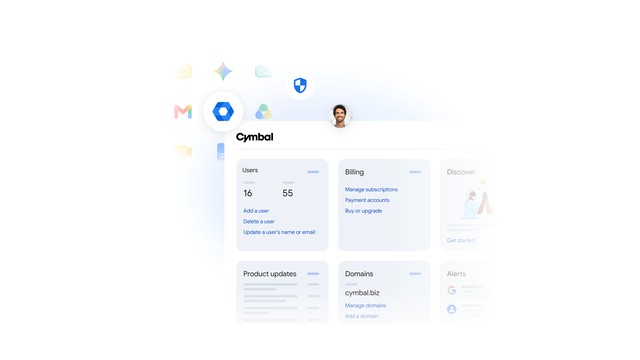
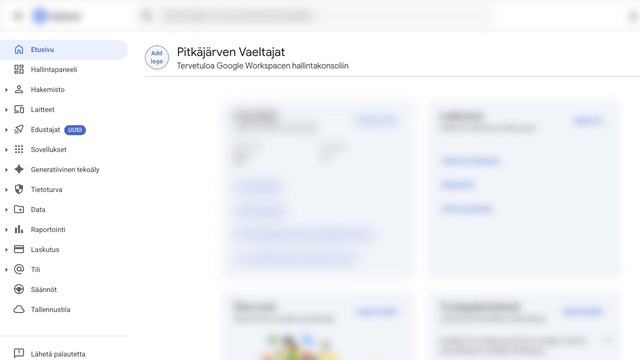
Replace the Hallinta mockup with the real admin console
Captured with the same redact-before-the-shutter method as the other three: the
console's cards, the search field and the account button are blurred by an
injected stylesheet before anything reaches a file. The nav rail stays crisp —
those are Google's own labels — and so does the header, because the
organisation named there is the association itself.

The console only loads behind a fresh sign-in challenge, so unlike the others
this one has to be signed in by hand in the browser first. Noted in both the
component and the README, since that is what blocked the earlier attempt.

Claude-Session: https://claude.ai/code/session_01KapsuRWMqCE23gxFnGreD4

diff --git a/app/previews.tsx b/app/previews.tsx
@@ -15,18 +15,17 @@
  * Re-capturing any of these means checking that again — the README has the
  * detail.
  *
- * **Gmail, Drive and Kalenteri** are the real products, captured on the
+ * **All four Google ones** are the real products, captured on the
  * association's own Workspace account and redacted *in the page before the
  * shutter*: a stylesheet was injected that blurs every file name, event chip,
- * search field and the account button, so no readable content was ever written
- * to a file. What is left is Google's own chrome — logos, nav rails, toolbars,
- * the calendar grid. The Gmail inbox happened to be empty, which is why its
- * list needs no blur.
+ * console card, search field and the account button, so no readable content was
+ * ever written to a file. What is left is Google's own chrome — logos, nav
+ * rails, toolbars, the calendar grid. The Gmail inbox happened to be empty,
+ * which is why its list needs no blur, and the admin console's own header is
+ * left crisp because the organisation's name is the association's own.
  *
- * **Hallinta is still Google's marketing mockup** from workspace.google.com.
- * The admin console demands a fresh sign-in challenge, and nobody types a
- * password to take a screenshot. Replace it the same way as the others if you
- * ever have the console open.
+ * The admin console will only load behind a fresh sign-in challenge, so
+ * re-capturing it means signing in first — in the browser, not from here.
  */
 
 /**

diff --git a/README.md b/README.md
@@ -138,18 +138,18 @@ and are as captured, the last with the WordPress admin bar cropped off the top.
 **Re-capturing any of these means re-checking that.** A screenshot of a
 signed-in internal service is the one asset on this site that can leak.
 
-**Gmail, Drive and Kalenteri are the real products.** They were captured on the
+**All four Google tiles are the real products.** They were captured on the
 association's Workspace account with the redaction applied *in the page before
 the shutter* — an injected stylesheet blurring every file name, event chip,
-search field and the account button — so no readable content was ever written to
-a file. What survives is Google's own chrome. Gmail's inbox was empty at the
-time, which is why its list is unblurred.
+console card, search field and the account button — so no readable content was
+ever written to a file. What survives is Google's own chrome. Gmail's inbox was
+empty at the time, which is why its list is unblurred; the admin console's
+header is left crisp because the organisation named there is the association.
 
 Do it that way if you re-capture them. Blurring afterwards means the unredacted
-frame existed on disk first.
-
-**Hallinta is still Google's marketing mockup.** The admin console demands a
-fresh sign-in challenge and nobody types a password to take a screenshot.
+frame existed on disk first. The admin console additionally refuses to load
+without a fresh sign-in challenge, so that one has to be signed in by hand in
+the browser before it can be captured at all.
 
 ### Editing the copy
 
